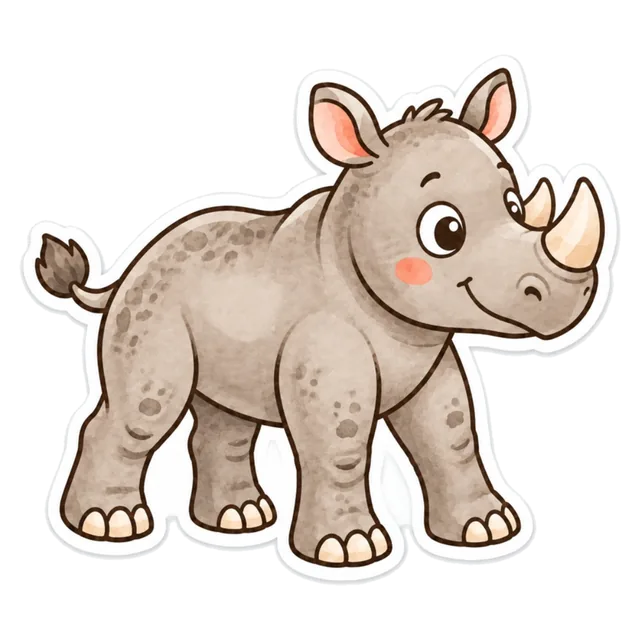
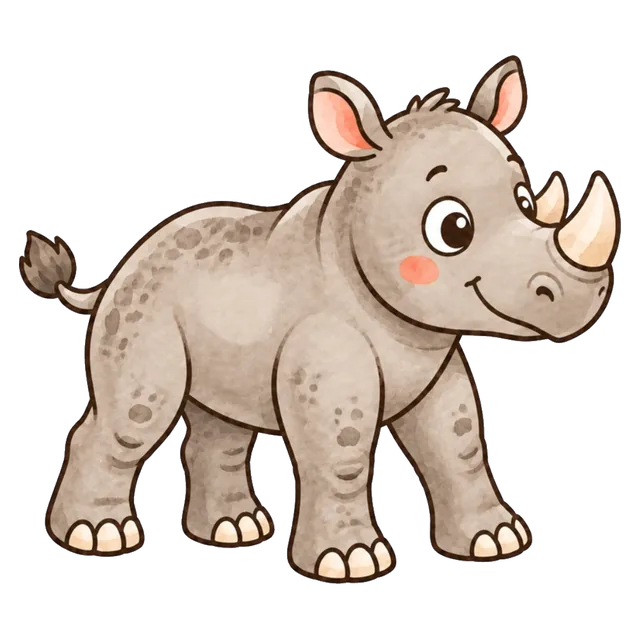
v0.31: Sticker-Tiere ohne weißen Rand
tools/freistellen.py („Farbe zu Transparenz“ mit geschütztem Inneren) jetzt für beide Sätze;
die Sticker werden gegen Weiß freigestellt, der Schattenhauch des früheren Randes geht mit.
Der wilde Satz ist dabei byte-gleich geblieben.

Claude-Session: https://claude.ai/code/session_01HZNDqFfj1AaNFCT1pCLNkA

diff --git a/index.html b/index.html
@@ -276,7 +276,7 @@ body:not(.mit-tieren) .freispiel { display: none; }
 </main>
 
 <script>
-const APP_VERSION = '0.30';          // bei JEDER Änderung hochzählen
+const APP_VERSION = '0.31';          // bei JEDER Änderung hochzählen
 
 const $ = s => document.querySelector(s);
 const $$ = s => document.querySelectorAll(s);

diff --git a/tools/sticker.py b/tools/sticker.py
@@ -1,92 +1,21 @@
-"""Schneidet die Tier-Sticker aus und schreibt tiere/4.webp … tiere/10.webp.
+"""Stellt die Tier-Sticker frei und schreibt tiere/4.webp … tiere/10.webp.
 
-Vorlage (in tiere/quelle/), in dieser Reihenfolge gesucht:
-  1. einzelne Bilder je Tier: 4.png, 5.jpg, … (Dateiendung png, jpg, jpeg oder webp)
-  2. sonst der Streifen sticker.jpg / sticker.png mit allen sieben Stickern von links (4 Vogel … 10 Zebra)
-Einzelbilder gehen vor, auch gemischt: ein neuer Frosch als 5.png ersetzt nur den Frosch aus dem Streifen.
-
-Der hellgraue Grund wird von den Ecken her geflutet und durchsichtig; der weiße Stickerrand bleibt.
-Bilder mit eigener Transparenz (PNG) werden so übernommen. Jeder Sticker wird in ein Quadrat
-eingepasst (94 %) und auf GROESSE Pixel gebracht (größte Anzeige 210 px × 3 auf dem iPhone).
+Vorlagen: tiere/quelle/4.jpg … 10.jpg (je ein Sticker mit weißem Rand auf hellgrauem Grund, ~800–1000 px,
+aus Bildschirmfotos ausgeschnitten – der Chat-Upload verkleinert breite Bilder, Einzelbilder nicht).
+Freigestellt wird gegen Weiß: Grund und weißer Stickerrand verschwinden, das Tier steht ohne Rand.
+Weißes im Tier (Augen, Zebrastreifen) bleibt, weil es innerhalb des Umrisses liegt (tools/freistellen.py).
 
 Aufruf im Projektordner: python3 tools/sticker.py
 """
 from pathlib import Path
-from PIL import Image, ImageChops, ImageDraw, ImageFilter
+from PIL import Image
+from freistellen import freistellen, ins_quadrat
 
-ORDNER = Path('tiere/quelle')
-GROESSE = 640
-ZAHLEN = range(4, 11)
-GRUND_TOLERANZ = 14   # Summe der Kanalabweichungen; der weiße Rand (255) liegt ~20 über dem Grund (~248)
+QUELLE, GROESSE = Path('tiere/quelle'), 640           # größte Anzeige 210 px × 3 auf dem iPhone
 
-
-def finde(name):
-    for endung in ('png', 'jpg', 'jpeg', 'webp'):
-        if (ORDNER / f'{name}.{endung}').exists():
-            return ORDNER / f'{name}.{endung}'
-
-
-def spalten(streifen):
-    """Spalten (von, bis), in denen sich etwas vom Grund abhebt – unabhängig von der Auflösung."""
-    grund = streifen.getpixel((2, 2))
-    abweichung = ImageChops.difference(streifen, Image.new('RGB', streifen.size, grund)).convert('L')
-    profil = list(abweichung.point(lambda v: 255 if v > 13 else 0).resize((streifen.width, 1), Image.BOX).tobytes())
-    teile, an = [], None
-    for x, v in enumerate(profil + [0]):
-        if v and an is None:
-            an = x
-        elif not v and an is not None:
-            if x - an > streifen.width / 100:   # Staub und JPEG-Rauschen überspringen
-                teile.append((an, x))
-            an = None
-    return teile
-
-
-def freistellen(bild):
-    """RGBA-Bild des Stickers, Grund durchsichtig, eng zugeschnitten."""
-    if bild.mode in ('RGBA', 'LA', 'P') and bild.convert('RGBA').getextrema()[3][0] < 255:
-        rgba = bild.convert('RGBA')                       # bringt eigene Transparenz mit
-        return rgba.crop(rgba.getchannel('A').point(lambda v: 255 if v > 20 else 0).getbbox())
-    farbe = bild.convert('RGB')
-    geflutet = farbe.copy()
-    for ecke in [(0, 0), (farbe.width - 1, 0), (0, farbe.height - 1), (farbe.width - 1, farbe.height - 1)]:
-        ImageDraw.floodfill(geflutet, ecke, (255, 0, 255), thresh=GRUND_TOLERANZ)
-    maske = ImageChops.difference(geflutet, Image.new('RGB', farbe.size, (255, 0, 255))).convert('L')
-    maske = maske.point(lambda v: 255 if v > 0 else 0)
-    maske = maske.filter(ImageFilter.MinFilter(3)).filter(ImageFilter.GaussianBlur(0.7))   # Schattensaum weg, Kante weich
-    rahmen = maske.point(lambda v: 255 if v > 20 else 0).getbbox()
-    farbe.putalpha(maske)
-    return farbe.crop(rahmen)
-
-
-quellen = {}
-streifen_datei = finde('sticker')
-if streifen_datei and any(not finde(n) for n in ZAHLEN):
-    streifen = Image.open(streifen_datei).convert('RGB')
-    teile = spalten(streifen)
-    if len(teile) != len(ZAHLEN):
-        raise SystemExit(f'{streifen_datei}: {len(teile)} Sticker gefunden, erwartet {len(ZAHLEN)}')
-    rand = round(streifen.height * .05)
-    for n, (x0, x1) in zip(ZAHLEN, teile):
-        quellen[n] = (f'{streifen_datei.name} [{x0}–{x1}]', streifen.crop((max(x0 - rand, 0), 0, min(x1 + rand, streifen.width), streifen.height)))
-for n in ZAHLEN:
-    if finde(n):
-        quellen[n] = (finde(n).name, Image.open(finde(n)))
-    if n not in quellen:
-        raise SystemExit(f'Keine Vorlage für {n}: weder {ORDNER}/{n}.png noch ein Streifen sticker.jpg')
-
-for n in ZAHLEN:
-    herkunft, bild = quellen[n]
-    sticker = freistellen(bild)
-    faktor = GROESSE * .94 / max(sticker.size)
-    neu = (round(sticker.width * faktor), round(sticker.height * faktor))
-    alpha = sticker.getchannel('A').resize(neu, Image.LANCZOS)
-    farbe = sticker.convert('RGB').resize(neu, Image.LANCZOS)
-    if faktor > 1.2:                                       # hochgerechnet: etwas nachschärfen
-        farbe = farbe.filter(ImageFilter.UnsharpMask(radius=2, percent=60, threshold=2))
-    farbe.putalpha(alpha)
-    ziel = Image.new('RGBA', (GROESSE, GROESSE), (0, 0, 0, 0))
-    ziel.alpha_composite(farbe, ((GROESSE - neu[0]) // 2, (GROESSE - neu[1]) // 2))
-    ziel.save(f'tiere/{n}.webp', quality=82, method=6)
-    print(f'tiere/{n}.webp  aus {herkunft}, Sticker {sticker.width}×{sticker.height} px, ×{faktor:.2f}'
-          + ('  ← unscharf, größere Vorlage nötig' if faktor > 1.5 else ''))
+for n in range(4, 11):
+    vorlage = next(QUELLE / f'{n}.{e}' for e in ('png', 'jpg', 'jpeg', 'webp') if (QUELLE / f'{n}.{e}').exists())
+    tier = freistellen(Image.open(vorlage), grund=(255, 255, 255), rauschen=.10, aussen_blass=.3)   # ohne Schattenhauch
+    bild, faktor = ins_quadrat(tier, GROESSE)
+    bild.save(f'tiere/{n}.webp', quality=82, method=6)
+    print(f'tiere/{n}.webp  aus {vorlage.name}, Tier {tier.width}×{tier.height} px, ×{faktor:.2f}')

diff --git a/tools/wild.py b/tools/wild.py
@@ -3,54 +3,21 @@
 Vorlagen: tiere/quelle/wild/4.jpg … 10.jpg (1024 px, Tier mit Farbspritzern auf hellgrauem Grund).
 
 Aquarell läuft weich in den Grund aus – ein harter Schnitt ließe einen grauen Saum stehen. Darum
-„Farbe zu Transparenz“: je Pixel wird ausgerechnet, wie viel Grau darin steckt, und genau das wird
-durchsichtig. Ränder und Spritzer bleiben weich. Was innen liegt (vom Rand aus nur durch das Tier
-erreichbar, z. B. der graue Nashornkörper oder das Augenweiß), bleibt voll deckend – sonst würde
-alles, was dem Grau ähnelt, mit verschwinden.
+„Farbe zu Transparenz“ gegen das Grau (tools/freistellen.py): Ränder und Spritzer bleiben weich,
+was innen liegt (grauer Nashornkörper, Augenweiß), bleibt voll deckend.
 
 Aufruf im Projektordner: python3 tools/wild.py
 """
 from pathlib import Path
-import numpy as np
-from PIL import Image, ImageDraw, ImageFilter
+from PIL import Image
+from freistellen import freistellen, ins_quadrat
 
 QUELLE, ZIEL = Path('tiere/quelle/wild'), Path('tiere/wild')
 GROESSE = 560           # Anzeige 179 px × 3 auf dem iPhone (390 pt); Aquarell ist teuer, darum nicht 640
-KERN = 0.25             # ab diesem Farbanteil zählt ein Pixel zum Tier (Umriss, Fläche, Spritzer)
-SAUM = 3                # so breit (px in der Vorlage) bleibt der Rand weich
 
 ZIEL.mkdir(exist_ok=True)
 for n in range(4, 11):
-    bild = Image.open(QUELLE / f'{n}.jpg').convert('RGB')
-    p = np.asarray(bild).astype(np.float32)
-    rand = np.concatenate([p[:6].reshape(-1, 3), p[-6:].reshape(-1, 3), p[:, :6].reshape(-1, 3), p[:, -6:].reshape(-1, 3)])
-    grund = np.median(rand, axis=0)
-
-    # Farbe zu Transparenz: kleinster Deckungsgrad, mit dem sich das Pixel aus dem Grau mischen lässt
-    hoch = np.where(p > grund, (p - grund) / (255 - grund), 0)
-    tief = np.where(p < grund, (grund - p) / grund, 0)
-    alpha = np.clip((np.maximum(hoch, tief).max(axis=2) - .04) / .96, 0, 1)      # JPEG-Rauschen im Grund weg
-
-    # innen = vom Bildrand aus nicht erreichbar, ohne das Tier zu kreuzen
-    weg = Image.fromarray(np.where(alpha > KERN, 0, 255).astype('uint8')).copy()
-    for ecke in [(0, 0), (weg.width - 1, 0), (0, weg.height - 1), (weg.width - 1, weg.height - 1)]:
-        if weg.getpixel(ecke) == 255:
-            ImageDraw.floodfill(weg, ecke, 128)
-    innen = Image.fromarray(np.where(np.asarray(weg) == 128, 0, 255).astype('uint8'))
-    tief_innen = np.asarray(innen.filter(ImageFilter.MinFilter(2 * SAUM + 1))) == 255
-    alpha = np.where(tief_innen, 1, alpha)
-
-    # Farbe entmischen: p = a·f + (1 − a)·g  →  f = (p − (1 − a)·g) / a
-    a3 = alpha[..., None]
-    farbe = np.clip((p - (1 - a3) * grund) / np.maximum(a3, 1e-3), 0, 255)
-    rgba = Image.fromarray(np.dstack([farbe, alpha * 255]).round().astype('uint8'), 'RGBA')
-
-    rahmen = rgba.getchannel('A').point(lambda v: 255 if v > 25 else 0).getbbox()
-    rgba = rgba.crop(rahmen)
-    faktor = GROESSE * .94 / max(rgba.size)
-    neu = (round(rgba.width * faktor), round(rgba.height * faktor))
-    rgba = rgba.convert('RGBa').resize(neu, Image.LANCZOS).convert('RGBA')         # vormultipliert: kein dunkler Saum
-    ziel = Image.new('RGBA', (GROESSE, GROESSE), (0, 0, 0, 0))
-    ziel.alpha_composite(rgba, ((GROESSE - neu[0]) // 2, (GROESSE - neu[1]) // 2))
-    ziel.save(ZIEL / f"{n}.webp", quality=68, alpha_quality=75, method=6)
-    print(f'tiere/wild/{n}.webp  Grund {grund.round().astype(int).tolist()}, Tier {rahmen[2] - rahmen[0]}×{rahmen[3] - rahmen[1]} px, ×{faktor:.2f}')
+    tier = freistellen(Image.open(QUELLE / f'{n}.jpg'))                      # Grund: Grau vom Bildrand
+    bild, faktor = ins_quadrat(tier, GROESSE)
+    bild.save(ZIEL / f'{n}.webp', quality=68, alpha_quality=75, method=6)
+    print(f'tiere/wild/{n}.webp  Tier {tier.width}×{tier.height} px, ×{faktor:.2f}')

diff --git a/tools/freistellen.py b/tools/freistellen.py
@@ -1,0 +1,56 @@
+"""Gemeinsames Freistellen für tools/sticker.py und tools/wild.py.
+
+„Farbe zu Transparenz“: je Pixel wird ausgerechnet, wie viel Grundfarbe darin steckt, und genau das
+wird durchsichtig. Weiche Ränder bleiben weich, kein heller Saum. Was innen liegt (vom Bildrand aus
+nur durch das Tier erreichbar: Augenweiß, weiße Zebrastreifen, grauer Nashornkörper), bleibt voll
+deckend – sonst verschwände alles, was der Grundfarbe ähnelt.
+"""
+import numpy as np
+from PIL import Image, ImageDraw, ImageFilter
+
+KERN = 0.25             # ab diesem Farbanteil zählt ein Pixel zum Tier (Umriss, Fläche, Spritzer)
+SAUM = 3                # so breit (px in der Vorlage) bleibt der Rand weich
+
+
+def freistellen(bild, grund=None, rauschen=.04, aussen_blass=0):
+    """RGBA, eng zugeschnitten. grund: Farbe, die verschwinden soll (Standard: Median am Bildrand).
+    rauschen: Deckung, die noch als Grund gilt (JPEG-Rauschen, leichter Schatten).
+    aussen_blass: was außen (mit dem Bildrand verbunden) blasser ist, wird ganz durchsichtig –
+    z. B. der Schattenhauch, wo bei den Stickern früher der weiße Rand endete."""
+    p = np.asarray(bild.convert('RGB')).astype(np.float32)
+    if grund is None:
+        rand = np.concatenate([p[:6].reshape(-1, 3), p[-6:].reshape(-1, 3), p[:, :6].reshape(-1, 3), p[:, -6:].reshape(-1, 3)])
+        grund = np.median(rand, axis=0)
+    grund = np.asarray(grund, dtype=np.float32)
+
+    # kleinster Deckungsgrad, mit dem sich das Pixel aus der Grundfarbe mischen lässt
+    hoch = np.where(p > grund, (p - grund) / np.maximum(255 - grund, 1), 0)
+    tief = np.where(p < grund, (grund - p) / np.maximum(grund, 1), 0)
+    alpha = np.clip((np.maximum(hoch, tief).max(axis=2) - rauschen) / (1 - rauschen), 0, 1)
+
+    # innen = vom Bildrand aus nicht erreichbar, ohne das Tier zu kreuzen
+    weg = Image.fromarray(np.where(alpha > KERN, 0, 255).astype('uint8')).copy()
+    for ecke in [(0, 0), (weg.width - 1, 0), (0, weg.height - 1), (weg.width - 1, weg.height - 1)]:
+        if weg.getpixel(ecke) == 255:
+            ImageDraw.floodfill(weg, ecke, 128)
+    aussen = np.asarray(weg) == 128
+    alpha = np.where(aussen & (alpha < aussen_blass), 0, alpha)
+    innen = Image.fromarray(np.where(aussen, 0, 255).astype('uint8'))
+    tief_innen = np.asarray(innen.filter(ImageFilter.MinFilter(2 * SAUM + 1))) == 255
+    alpha = np.where(tief_innen, 1, alpha)
+
+    # Farbe entmischen: p = a·f + (1 − a)·g  →  f = (p − (1 − a)·g) / a
+    a3 = alpha[..., None]
+    farbe = np.clip((p - (1 - a3) * grund) / np.maximum(a3, 1e-3), 0, 255)
+    rgba = Image.fromarray(np.dstack([farbe, alpha * 255]).round().astype('uint8'), 'RGBA')
+    return rgba.crop(rgba.getchannel('A').point(lambda v: 255 if v > 25 else 0).getbbox())
+
+
+def ins_quadrat(rgba, groesse, anteil=.94):
+    """In ein durchsichtiges Quadrat einpassen; vormultipliert verkleinert, damit kein dunkler Saum entsteht."""
+    faktor = groesse * anteil / max(rgba.size)
+    neu = (round(rgba.width * faktor), round(rgba.height * faktor))
+    klein = rgba.convert('RGBa').resize(neu, Image.LANCZOS).convert('RGBA')
+    ziel = Image.new('RGBA', (groesse, groesse), (0, 0, 0, 0))
+    ziel.alpha_composite(klein, ((groesse - neu[0]) // 2, (groesse - neu[1]) // 2))
+    return ziel, faktor

diff --git a/README.md b/README.md
@@ -42,16 +42,17 @@ nach oben: 3 + 1 + 3), 8 Oktopus (Ausnahme: *okto* = acht, 8 Arme als 4 + 4), 9 
 Breite bzw. 210 px), die Zahl als Plakette rechts unten daneben („wir sind beim Oktopus, bei der 8“).
 Es hüpft bei jeder richtigen Antwort, nach einer ganzen Runde zweimal. Schalter aus = ohne Tiere.
 
-Die Bilder sind Sticker aus einem Bildgenerator, je Tier eine Vorlage (`tiere/quelle/4.jpg` …
-`10.jpg`, ~800–1000 px, aus Bildschirmfotos ausgeschnitten – der Chat-Upload verkleinert breite Bilder,
-Einzelbilder kommen in voller Größe an). `python3 tools/sticker.py` macht den Grund durchsichtig und
-schreibt `tiere/*.webp` (640 px, nur verkleinert, also scharf). Es nimmt auch einen Streifen
-`sticker.jpg` mit allen sieben; Einzelbilder gehen vor. Offene Punkte: Der Frosch zeigt 4 Beine (bei
-der 5 lädt das zum falschen Zählen ein), das Seepferdchen liegt waagerecht statt als 6. Die frühere
-gezeichnete Fassung (SVG mit Papierstruktur, `tools/tiere.mjs`) liegt in der Git-Historie (bis v0.23).
+Die Sticker kommen aus einem Bildgenerator, je Tier eine Vorlage (`tiere/quelle/4.jpg` … `10.jpg`,
+~800–1000 px, aus Bildschirmfotos ausgeschnitten – der Chat-Upload verkleinert breite Bilder,
+Einzelbilder kommen in voller Größe an). `python3 tools/sticker.py` stellt sie **ohne den weißen
+Stickerrand** frei („Farbe zu Transparenz“ gegen Weiß, `tools/freistellen.py`): Weißes im Tier (Augen,
+Zebrastreifen) bleibt, weil es innerhalb des Umrisses liegt; der Schattenhauch des früheren Randes
+geht mit. Ergebnis `tiere/*.webp` (640 px, nur verkleinert, also scharf). Offene Punkte: Der Frosch
+zeigt 4 Beine (bei der 5 lädt das zum falschen Zählen ein), das Seepferdchen liegt waagerecht statt
+als 6. Die frühere gezeichnete Fassung (SVG mit Papierstruktur) liegt in der Git-Historie (bis v0.23).
 
 Zweiter Satz **wild & bunt**: Aquarell-Tiere mit Farbspritzern (`tiere/quelle/wild/4.jpg` … `10.jpg`,
-1024 px). `python3 tools/wild.py` rechnet den grauen Grund pro Pixel heraus („Farbe zu Transparenz“),
+1024 px). `python3 tools/wild.py` rechnet den grauen Grund pro Pixel heraus (dasselbe `tools/freistellen.py`),
 damit die weichen Aquarellränder und Spritzer bleiben; was innen liegt (grauer Nashornkörper, weiße
 Zebrastreifen) bleibt voll deckend. Ergebnis `tiere/wild/*.webp` (560 px, je ~70–110 KB; wird erst
 geladen, wenn der Satz gewählt ist). Auch hier: Oktopus genau 8 Arme (4 + 4), Seestern genau 7.
